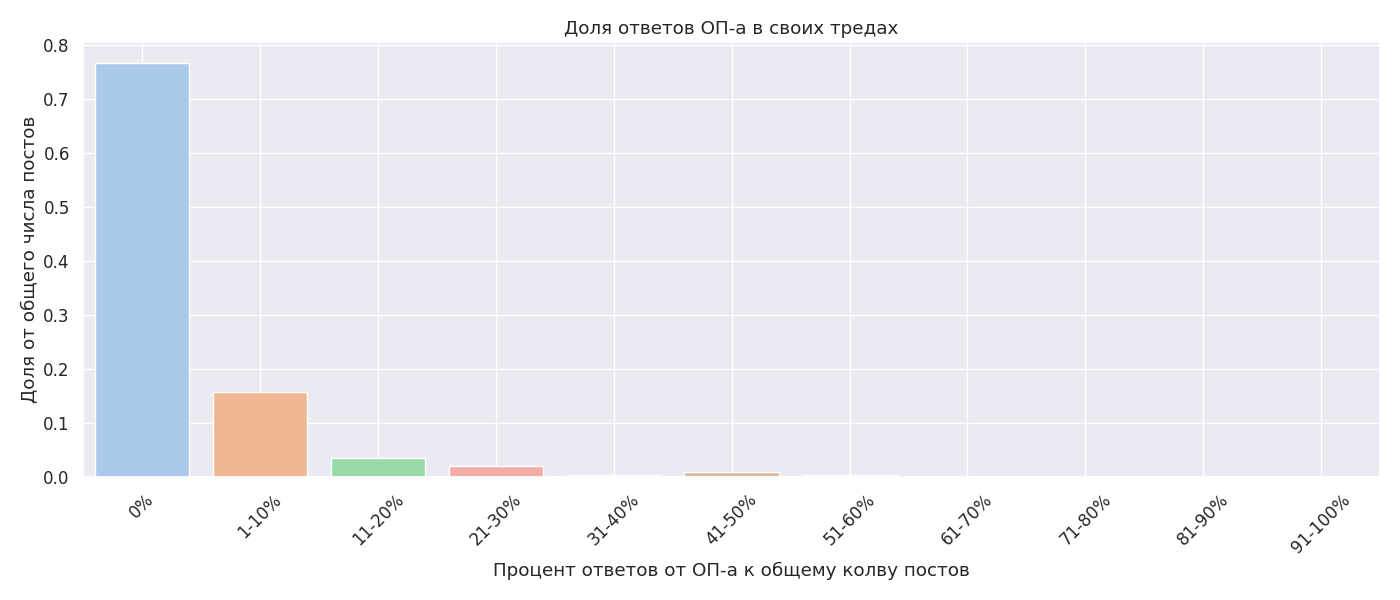
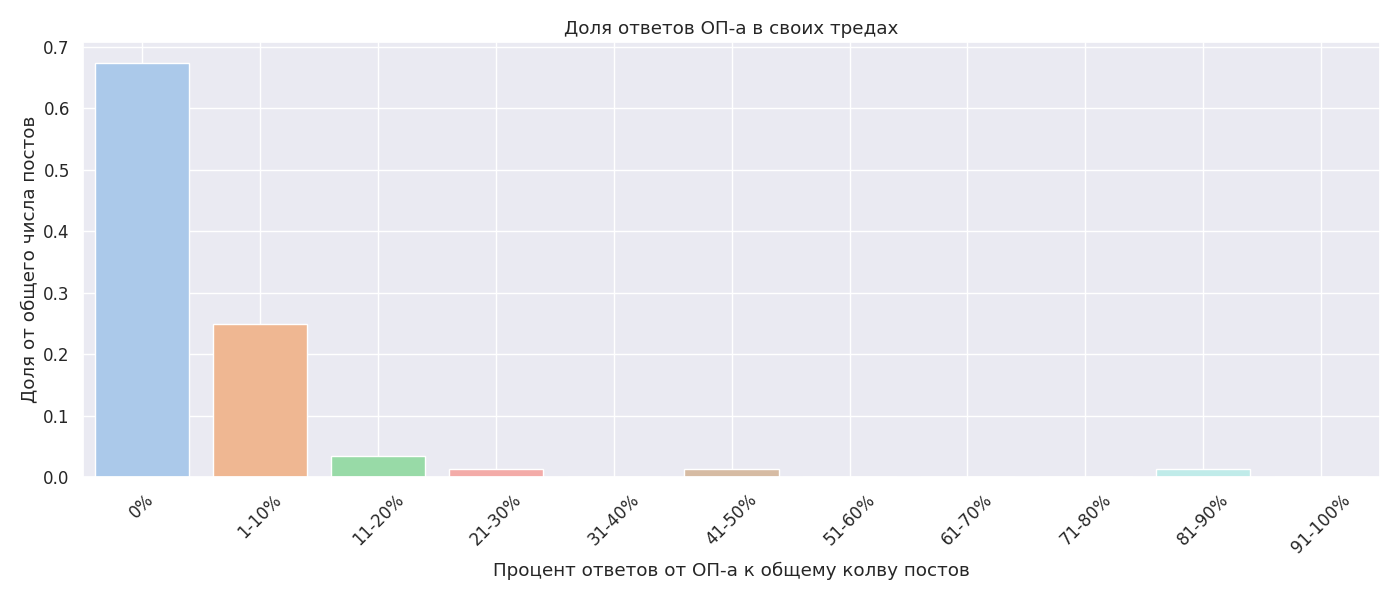
f

diff --git a/analysis.py b/analysis.py
@@ -7,7 +7,7 @@ import seaborn as sns
 
 sns.set(style='darkgrid', font_scale=1.1)
 
-min_posts_count = 10
+min_posts_count = 100
 
 df = pd.read_csv(const.CSV_FILE, parse_dates=['datetime'])
 df.drop_duplicates(subset=['datetime', 'thread_num'], inplace=True)
@@ -17,9 +17,11 @@ df = df.dropna(subset=['op_reply_ratio'])
 df = df[df['posts_count'] >= min_posts_count]
 
 df['op_reply_percent'] = np.ceil(df['op_reply_ratio'] * 100)
+df['op_replied'] = np.where(df['op_reply_ratio'] > 0, 1, 0)
+
+fifteen_min_op_reply = df.resample('15T', on='datetime')['op_replied'].mean()
 
 zero_percent_count = df[df['op_reply_percent'] == 0].shape[0]
-nonzero_percent_count = df[df['op_reply_percent'] > 0][df['op_reply_percent'] <= 10]
 
 bins = [0, 0.1, 11, 21, 31, 41, 51, 61, 71, 81, 91, 101]
 labels = ['0%', '1-10%', '11-20%', '21-30%', '31-40%', '41-50%', 
@@ -49,3 +51,45 @@ plt.tight_layout()
 
 plt.show()
 plt.savefig('stats2.png')
+
+
+
+plt.figure(figsize=(14, 6))
+
+fifteen_min_op_reply.plot(marker='o', linestyle='-')
+
+plt.title('Процент тредов с ответами от ОП по неделям')
+plt.xlabel('Неделя')
+plt.ylabel('Процент тредов с ответами ОП')
+plt.xticks(rotation=45)
+
+plt.grid(True)
+plt.tight_layout()
+
+plt.show()
+plt.savefig('weekly_op_reply.png')
+
+# Преобразуем created_dt в datetime, если он еще не в формате datetime
+df['created_dt'] = pd.to_datetime(df['created_dt'], errors='coerce')
+df = df.dropna(subset=['created_dt'])
+
+# Округляем время создания до часа
+df['created_hour'] = df['created_dt'].dt.floor('H')
+
+# Группировка по часу — сколько тредов создано в каждый час
+threads_per_hour = df.groupby('created_hour').size()
+
+# Построение графика
+plt.figure(figsize=(14, 6))
+threads_per_hour.plot(kind='line', marker='o', color='teal')
+
+plt.title('Скорость создания тредов (в час)')
+plt.xlabel('Дата и час')
+plt.ylabel('Количество новых тредов')
+plt.xticks(rotation=45)
+
+plt.grid(True)
+plt.tight_layout()
+
+plt.show()
+plt.savefig('thread_creation_rate.png')

diff --git a/test.py b/test.py
@@ -3,6 +3,7 @@ import hashlib
 import time
 import datetime
 import difflib
+import json
 from collections import defaultdict, Counter
 import os
 
@@ -61,6 +62,7 @@ def snapshot_board(board='b'):
             'last_seen': snapshot_time,
             'thread_num': thread_num,
             'title': title,
+            'subtitle': subject,
             'posts_count': posts_count,
             'op_post_count': op_post_count,
             'op_reply_ratio': op_reply_ratio,
@@ -68,6 +70,12 @@ def snapshot_board(board='b'):
         }
 
         print(f'save thread {thread_num}, op_reply_ratio: {op_reply_ratio}')
+
+        json_dir = 'threads'
+        os.makedirs(json_dir, exist_ok=True)
+        thread_path = os.path.join(json_dir, f"{thread_num}.json")
+        with open(thread_path, 'w', encoding='utf-8') as f:
+            json.dump(json.loads(thread.json_download()), f, ensure_ascii=False, indent=2)
 
     existing_data = {}
     if os.path.exists(const.CSV_FILE):
@@ -89,6 +97,7 @@ def snapshot_board(board='b'):
 
 if __name__ == '__main__':
     while True:
+        snapshot_board('b')
         try:
             snapshot_board('b')
         except Exception as e:

diff --git a/const.py b/const.py
@@ -2,16 +2,14 @@ CSV_FILE = 'dvach_snapshot.csv'
 FIELDNAMES = [
     'datetime', 
     'thread_num', 
-    'title', 
     'posts_count', 
     'op_post_count', 
-    'title_len', 
     'question_marks', 
     'anon_triggered', 
     'op_reply_ratio',
     'created_dt',
     'last_seen',
-    'title_len',
-    'question_marks',
-    'anon_triggered'
+    'title_len', 
+    'title',
+    'subtitle',
 ]
